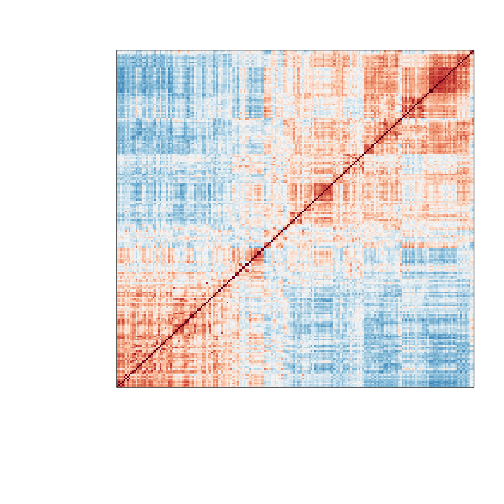
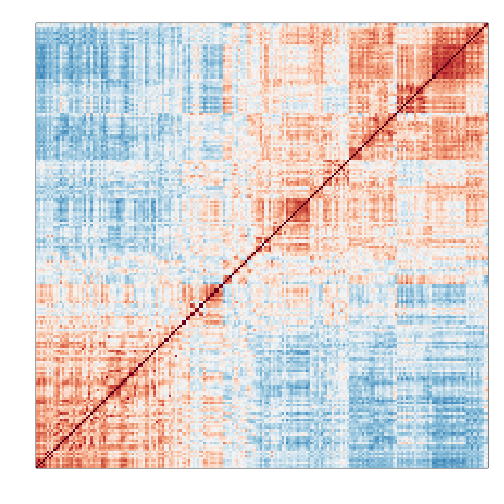
adding factor_analysis to book

diff --git a/manuscript/factor_analysis.md b/manuscript/factor_analysis.md
@@ -54,11 +54,11 @@ Based on the plot above we hypothesize that there are two hidden factors {$$}\ma
 Y_{ij} = \alpha_{i,1} W_{1,j} + \alpha_{i,2} W_{2,j} + \varepsilon_{ij}
 {/$$}
 
-The interpretation of these parameters are as follows: {$$}\alpha_{i,1}{/$$} is the overall ability for student {$$}i{/$$} and {$$}\alpha_{i,2}{/$$} is the  difference in ability between the two subgroups for student {$$}i{/$$}. Can we estimate the {$$}W{/$$} and {$$}\alpha$? 
+The interpretation of these parameters are as follows: {$$}\alpha_{i,1}{/$$} is the overall ability for student {$$}i{/$$} and {$$}\alpha_{i,2}{/$$} is the  difference in ability between the two subgroups for student {$$}i{/$$}. Can we estimate the {$$}W{/$$} and {$$}\alpha{/$$} ? 
 
 ### Factor analysis and PCA
 
-The first two principal components estimate {/$$}W_1{$$} and {/$$}W_2{$$} [we need to add reference for the math]
+The first two principal components estimate {$$}W_1{/$$} and {$$}W_2{/$$} [we need to add reference for the math]
 
 
 ```r
@@ -77,9 +77,9 @@ round(W,1)
 Note that, as expected, the first factor is close to a constant and will help explain the observed correlation across all subjects, while the second is a factor that differs between STEM and humanities and 
 We can use these estimate in the model:
 
-{/$$}
-Y_{ij} = \alpha_{i,1} \hat{W}_{1,j} + \alpha_{i,2} \hat{W}_{2,j} + \varepsilon_{ij}
 {$$}
+Y_{ij} = \alpha_{i,1} \hat{W}_{1,j} + \alpha_{i,2} \hat{W}_{2,j} + \varepsilon_{ij}
+{/$$}
  
 and we can now fit the model:
 
@@ -101,42 +101,6 @@ In high throughput data is is quite common to see correlation structure. For exa
 
 ```r
 library(Biobase)
-```
-
-```
-## Loading required package: BiocGenerics
-## Loading required package: methods
-## Loading required package: parallel
-## 
-## Attaching package: 'BiocGenerics'
-## 
-## The following objects are masked from 'package:parallel':
-## 
-##     clusterApply, clusterApplyLB, clusterCall, clusterEvalQ,
-##     clusterExport, clusterMap, parApply, parCapply, parLapply,
-##     parLapplyLB, parRapply, parSapply, parSapplyLB
-## 
-## The following object is masked from 'package:stats':
-## 
-##     xtabs
-## 
-## The following objects are masked from 'package:base':
-## 
-##     anyDuplicated, append, as.data.frame, as.vector, cbind,
-##     colnames, do.call, duplicated, eval, evalq, Filter, Find, get,
-##     intersect, is.unsorted, lapply, Map, mapply, match, mget,
-##     order, paste, pmax, pmax.int, pmin, pmin.int, Position, rank,
-##     rbind, Reduce, rep.int, rownames, sapply, setdiff, sort,
-##     table, tapply, union, unique, unlist, unsplit
-## 
-## Welcome to Bioconductor
-## 
-##     Vignettes contain introductory material; view with
-##     'browseVignettes()'. To cite Bioconductor, see
-##     'citation("Biobase")', and for packages 'citation("pkgname")'.
-```
-
-```r
 library(GSE5859)
 data(GSE5859)
 n <- nrow(pData(e))
@@ -147,7 +111,6 @@ cors=cor(Y-rowMeans(Y))
 mypar()
 
 cols=colorRampPalette(rev(brewer.pal(11,"RdBu")))(100)
-par(mar = c(8.1, 8.1, 3.5, 2.1))
 image(1:n,1:n,cors,xaxt="n",yaxt="n",col=cols,xlab="",ylab="",zlim=c(-1,1))
 ```
 
@@ -155,10 +118,10 @@ image(1:n,1:n,cors,xaxt="n",yaxt="n",col=cols,xlab="",ylab="",zlim=c(-1,1))
 
 Two factors will not be enough to model the observed correlation structure. But a more general factor model can be useful:
 
-{/$$}
-Y_{ij} = \sum_{k=1}^K \alpha_{i,k} W_{j,k} + \varepsilon_{ij}
 {$$}
+Y_{ij} = \sum_{k=1}^K \alpha_{i,k} W_{j,k} + \varepsilon_{ij}
+{/$$}
 
-And we can use PCA to estimate {/$$}\mathbf{W}_1,\dots,\mathbf{W}_K{$$}. Choosing {/$$}k{$$} is a challenge and in the next section we describe how exploratory data analysis might help.
+And we can use PCA to estimate {$$}\mathbf{W}_1,\dots,\mathbf{W}_K{/$$}. Choosing {$$}k{/$$} is a challenge and in the next section we describe how exploratory data analysis might help.
 
 
